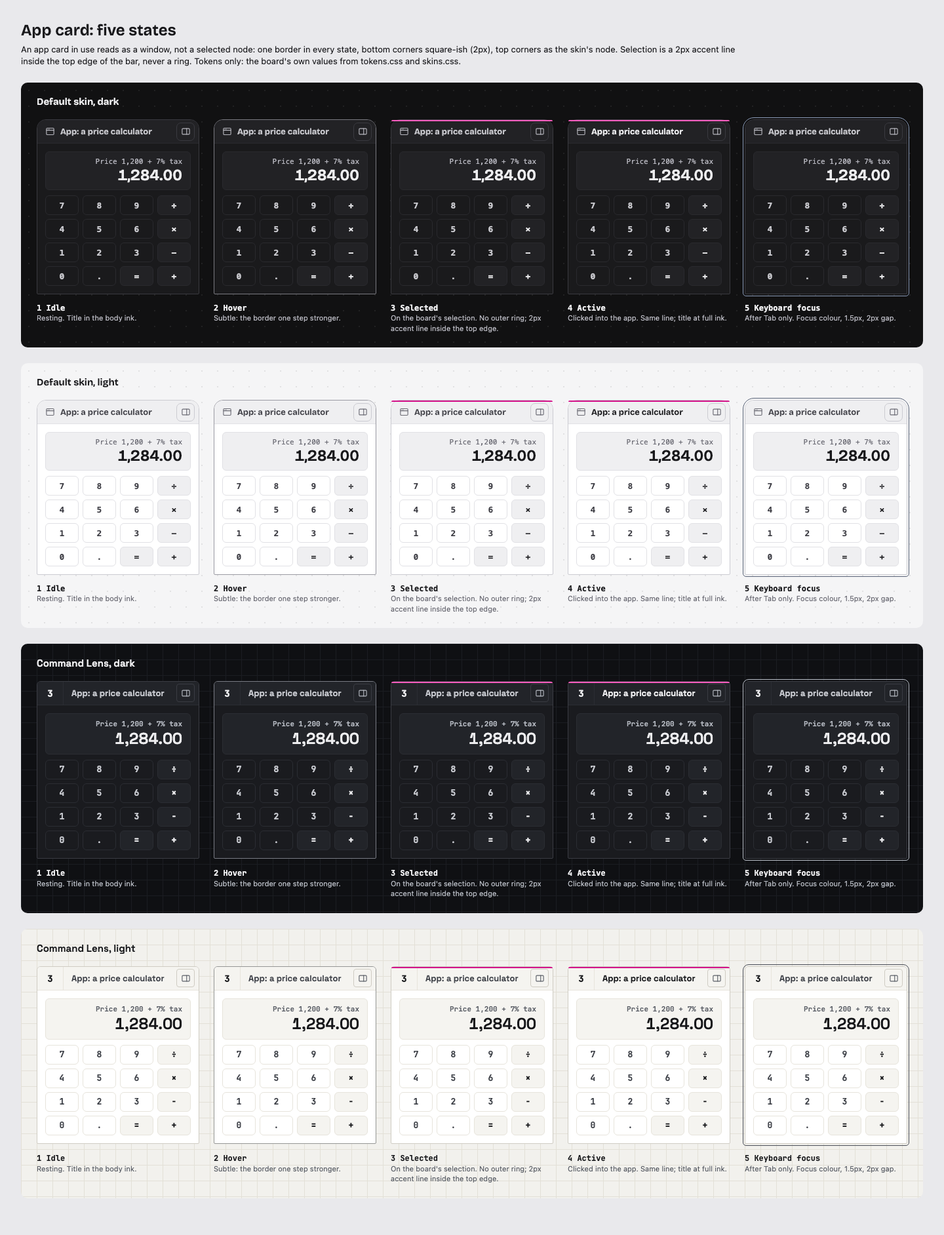
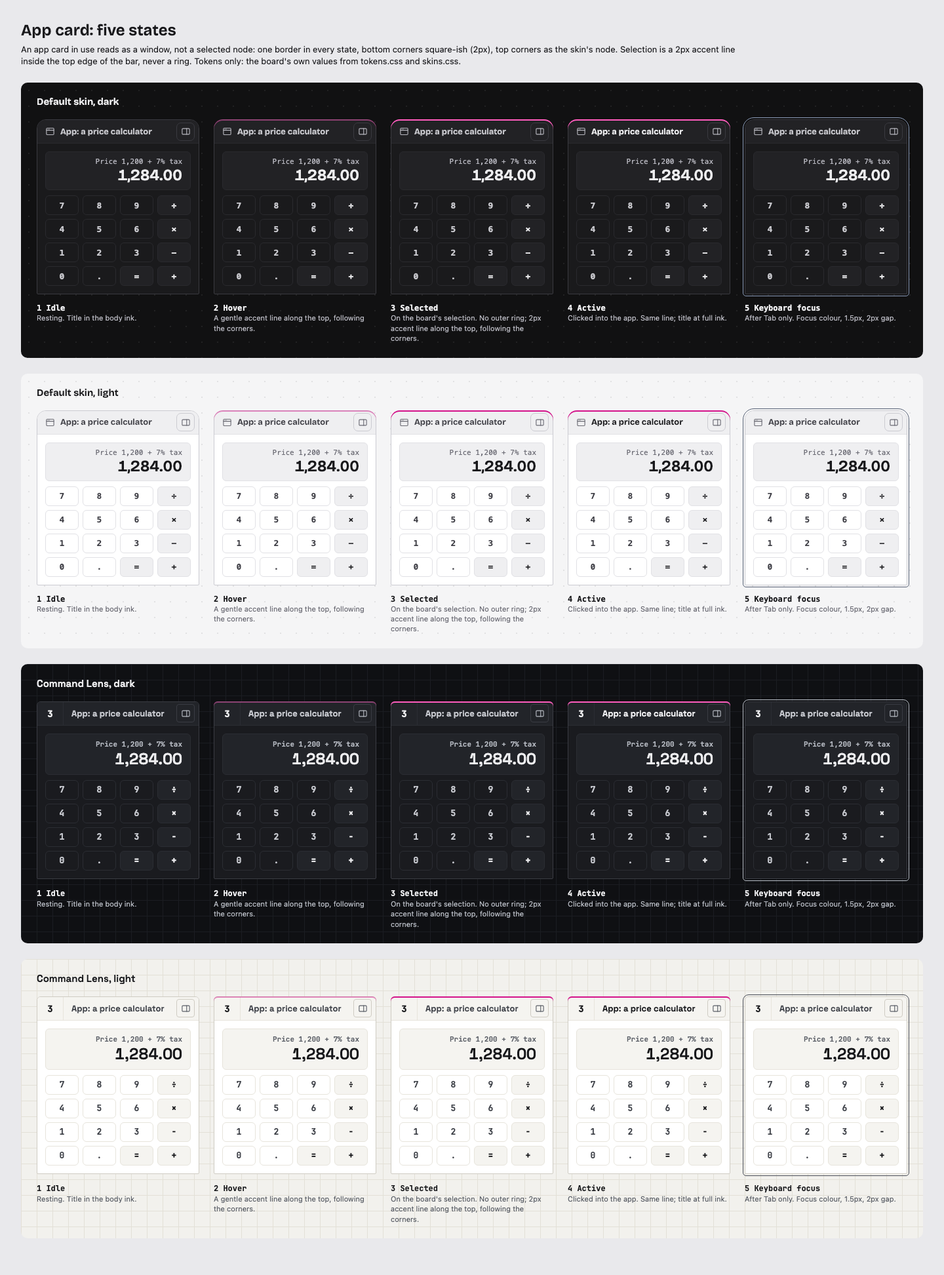
Mockup: app card top line follows the corners; gentle hover (for review)

diff --git a/design/mockups/app-node/app-node-states.html b/design/mockups/app-node/app-node-states.html
@@ -12,26 +12,26 @@
 <p>An app card in use reads as a window, not a selected node: one border in every state, bottom corners square-ish (2px), top corners as the skin's node. Selection is a 2px accent line inside the top edge of the bar, never a ring. Tokens only: the board's own values from tokens.css and skins.css.</p></header>
 <section class="vb-board panel" data-theme="dark"><h2>Default skin, dark</h2><div class="row"><figure><div class="win idle"><div class="bar"><svg class="ic" viewBox="0 0 24 24" aria-hidden="true"><rect x="3" y="4" width="18" height="16" rx="2"/><path d="M3 9h18M7 6.5h.01M10 6.5h.01"/></svg><span class="nm">App: a price calculator</span><span class="btn"><svg class="ic" viewBox="0 0 24 24" aria-hidden="true"><rect x="3" y="5" width="18" height="14" rx="2"/><path d="M14 5v14"/></svg></span></div>
 <div class="body"><div class="disp"><small>Price 1,200 + 7% tax</small><b>1,284.00</b></div><div class="keys"><span class="">7</span><span class="">8</span><span class="">9</span><span class="op">÷</span><span class="">4</span><span class="">5</span><span class="">6</span><span class="op">×</span><span class="">1</span><span class="">2</span><span class="">3</span><span class="op">−</span><span class="">0</span><span class="">.</span><span class="op">=</span><span class="op">+</span></div></div></div><figcaption><b>1 Idle</b>Resting. Title in the body ink.</figcaption></figure><figure><div class="win hover"><div class="bar"><svg class="ic" viewBox="0 0 24 24" aria-hidden="true"><rect x="3" y="4" width="18" height="16" rx="2"/><path d="M3 9h18M7 6.5h.01M10 6.5h.01"/></svg><span class="nm">App: a price calculator</span><span class="btn"><svg class="ic" viewBox="0 0 24 24" aria-hidden="true"><rect x="3" y="5" width="18" height="14" rx="2"/><path d="M14 5v14"/></svg></span></div>
-<div class="body"><div class="disp"><small>Price 1,200 + 7% tax</small><b>1,284.00</b></div><div class="keys"><span class="">7</span><span class="">8</span><span class="">9</span><span class="op">÷</span><span class="">4</span><span class="">5</span><span class="">6</span><span class="op">×</span><span class="">1</span><span class="">2</span><span class="">3</span><span class="op">−</span><span class="">0</span><span class="">.</span><span class="op">=</span><span class="op">+</span></div></div></div><figcaption><b>2 Hover</b>Subtle: the border one step stronger.</figcaption></figure><figure><div class="win selected"><div class="bar"><svg class="ic" viewBox="0 0 24 24" aria-hidden="true"><rect x="3" y="4" width="18" height="16" rx="2"/><path d="M3 9h18M7 6.5h.01M10 6.5h.01"/></svg><span class="nm">App: a price calculator</span><span class="btn"><svg class="ic" viewBox="0 0 24 24" aria-hidden="true"><rect x="3" y="5" width="18" height="14" rx="2"/><path d="M14 5v14"/></svg></span></div>
-<div class="body"><div class="disp"><small>Price 1,200 + 7% tax</small><b>1,284.00</b></div><div class="keys"><span class="">7</span><span class="">8</span><span class="">9</span><span class="op">÷</span><span class="">4</span><span class="">5</span><span class="">6</span><span class="op">×</span><span class="">1</span><span class="">2</span><span class="">3</span><span class="op">−</span><span class="">0</span><span class="">.</span><span class="op">=</span><span class="op">+</span></div></div></div><figcaption><b>3 Selected</b>On the board's selection. No outer ring; 2px accent line inside the top edge.</figcaption></figure><figure><div class="win active"><div class="bar"><svg class="ic" viewBox="0 0 24 24" aria-hidden="true"><rect x="3" y="4" width="18" height="16" rx="2"/><path d="M3 9h18M7 6.5h.01M10 6.5h.01"/></svg><span class="nm">App: a price calculator</span><span class="btn"><svg class="ic" viewBox="0 0 24 24" aria-hidden="true"><rect x="3" y="5" width="18" height="14" rx="2"/><path d="M14 5v14"/></svg></span></div>
+<div class="body"><div class="disp"><small>Price 1,200 + 7% tax</small><b>1,284.00</b></div><div class="keys"><span class="">7</span><span class="">8</span><span class="">9</span><span class="op">÷</span><span class="">4</span><span class="">5</span><span class="">6</span><span class="op">×</span><span class="">1</span><span class="">2</span><span class="">3</span><span class="op">−</span><span class="">0</span><span class="">.</span><span class="op">=</span><span class="op">+</span></div></div></div><figcaption><b>2 Hover</b>A gentle accent line along the top, following the corners.</figcaption></figure><figure><div class="win selected"><div class="bar"><svg class="ic" viewBox="0 0 24 24" aria-hidden="true"><rect x="3" y="4" width="18" height="16" rx="2"/><path d="M3 9h18M7 6.5h.01M10 6.5h.01"/></svg><span class="nm">App: a price calculator</span><span class="btn"><svg class="ic" viewBox="0 0 24 24" aria-hidden="true"><rect x="3" y="5" width="18" height="14" rx="2"/><path d="M14 5v14"/></svg></span></div>
+<div class="body"><div class="disp"><small>Price 1,200 + 7% tax</small><b>1,284.00</b></div><div class="keys"><span class="">7</span><span class="">8</span><span class="">9</span><span class="op">÷</span><span class="">4</span><span class="">5</span><span class="">6</span><span class="op">×</span><span class="">1</span><span class="">2</span><span class="">3</span><span class="op">−</span><span class="">0</span><span class="">.</span><span class="op">=</span><span class="op">+</span></div></div></div><figcaption><b>3 Selected</b>On the board's selection. No outer ring; 2px accent line along the top, following the corners.</figcaption></figure><figure><div class="win active"><div class="bar"><svg class="ic" viewBox="0 0 24 24" aria-hidden="true"><rect x="3" y="4" width="18" height="16" rx="2"/><path d="M3 9h18M7 6.5h.01M10 6.5h.01"/></svg><span class="nm">App: a price calculator</span><span class="btn"><svg class="ic" viewBox="0 0 24 24" aria-hidden="true"><rect x="3" y="5" width="18" height="14" rx="2"/><path d="M14 5v14"/></svg></span></div>
 <div class="body"><div class="disp"><small>Price 1,200 + 7% tax</small><b>1,284.00</b></div><div class="keys"><span class="">7</span><span class="">8</span><span class="">9</span><span class="op">÷</span><span class="">4</span><span class="">5</span><span class="">6</span><span class="op">×</span><span class="">1</span><span class="">2</span><span class="">3</span><span class="op">−</span><span class="">0</span><span class="">.</span><span class="op">=</span><span class="op">+</span></div></div></div><figcaption><b>4 Active</b>Clicked into the app. Same line; title at full ink.</figcaption></figure><figure><div class="win focus"><div class="bar"><svg class="ic" viewBox="0 0 24 24" aria-hidden="true"><rect x="3" y="4" width="18" height="16" rx="2"/><path d="M3 9h18M7 6.5h.01M10 6.5h.01"/></svg><span class="nm">App: a price calculator</span><span class="btn"><svg class="ic" viewBox="0 0 24 24" aria-hidden="true"><rect x="3" y="5" width="18" height="14" rx="2"/><path d="M14 5v14"/></svg></span></div>
 <div class="body"><div class="disp"><small>Price 1,200 + 7% tax</small><b>1,284.00</b></div><div class="keys"><span class="">7</span><span class="">8</span><span class="">9</span><span class="op">÷</span><span class="">4</span><span class="">5</span><span class="">6</span><span class="op">×</span><span class="">1</span><span class="">2</span><span class="">3</span><span class="op">−</span><span class="">0</span><span class="">.</span><span class="op">=</span><span class="op">+</span></div></div></div><figcaption><b>5 Keyboard focus</b>After Tab only. Focus colour, 1.5px, 2px gap.</figcaption></figure></div></section>
 <section class="vb-board panel" data-theme="light"><h2>Default skin, light</h2><div class="row"><figure><div class="win idle"><div class="bar"><svg class="ic" viewBox="0 0 24 24" aria-hidden="true"><rect x="3" y="4" width="18" height="16" rx="2"/><path d="M3 9h18M7 6.5h.01M10 6.5h.01"/></svg><span class="nm">App: a price calculator</span><span class="btn"><svg class="ic" viewBox="0 0 24 24" aria-hidden="true"><rect x="3" y="5" width="18" height="14" rx="2"/><path d="M14 5v14"/></svg></span></div>
 <div class="body"><div class="disp"><small>Price 1,200 + 7% tax</small><b>1,284.00</b></div><div class="keys"><span class="">7</span><span class="">8</span><span class="">9</span><span class="op">÷</span><span class="">4</span><span class="">5</span><span class="">6</span><span class="op">×</span><span class="">1</span><span class="">2</span><span class="">3</span><span class="op">−</span><span class="">0</span><span class="">.</span><span class="op">=</span><span class="op">+</span></div></div></div><figcaption><b>1 Idle</b>Resting. Title in the body ink.</figcaption></figure><figure><div class="win hover"><div class="bar"><svg class="ic" viewBox="0 0 24 24" aria-hidden="true"><rect x="3" y="4" width="18" height="16" rx="2"/><path d="M3 9h18M7 6.5h.01M10 6.5h.01"/></svg><span class="nm">App: a price calculator</span><span class="btn"><svg class="ic" viewBox="0 0 24 24" aria-hidden="true"><rect x="3" y="5" width="18" height="14" rx="2"/><path d="M14 5v14"/></svg></span></div>
-<div class="body"><div class="disp"><small>Price 1,200 + 7% tax</small><b>1,284.00</b></div><div class="keys"><span class="">7</span><span class="">8</span><span class="">9</span><span class="op">÷</span><span class="">4</span><span class="">5</span><span class="">6</span><span class="op">×</span><span class="">1</span><span class="">2</span><span class="">3</span><span class="op">−</span><span class="">0</span><span class="">.</span><span class="op">=</span><span class="op">+</span></div></div></div><figcaption><b>2 Hover</b>Subtle: the border one step stronger.</figcaption></figure><figure><div class="win selected"><div class="bar"><svg class="ic" viewBox="0 0 24 24" aria-hidden="true"><rect x="3" y="4" width="18" height="16" rx="2"/><path d="M3 9h18M7 6.5h.01M10 6.5h.01"/></svg><span class="nm">App: a price calculator</span><span class="btn"><svg class="ic" viewBox="0 0 24 24" aria-hidden="true"><rect x="3" y="5" width="18" height="14" rx="2"/><path d="M14 5v14"/></svg></span></div>
-<div class="body"><div class="disp"><small>Price 1,200 + 7% tax</small><b>1,284.00</b></div><div class="keys"><span class="">7</span><span class="">8</span><span class="">9</span><span class="op">÷</span><span class="">4</span><span class="">5</span><span class="">6</span><span class="op">×</span><span class="">1</span><span class="">2</span><span class="">3</span><span class="op">−</span><span class="">0</span><span class="">.</span><span class="op">=</span><span class="op">+</span></div></div></div><figcaption><b>3 Selected</b>On the board's selection. No outer ring; 2px accent line inside the top edge.</figcaption></figure><figure><div class="win active"><div class="bar"><svg class="ic" viewBox="0 0 24 24" aria-hidden="true"><rect x="3" y="4" width="18" height="16" rx="2"/><path d="M3 9h18M7 6.5h.01M10 6.5h.01"/></svg><span class="nm">App: a price calculator</span><span class="btn"><svg class="ic" viewBox="0 0 24 24" aria-hidden="true"><rect x="3" y="5" width="18" height="14" rx="2"/><path d="M14 5v14"/></svg></span></div>
+<div class="body"><div class="disp"><small>Price 1,200 + 7% tax</small><b>1,284.00</b></div><div class="keys"><span class="">7</span><span class="">8</span><span class="">9</span><span class="op">÷</span><span class="">4</span><span class="">5</span><span class="">6</span><span class="op">×</span><span class="">1</span><span class="">2</span><span class="">3</span><span class="op">−</span><span class="">0</span><span class="">.</span><span class="op">=</span><span class="op">+</span></div></div></div><figcaption><b>2 Hover</b>A gentle accent line along the top, following the corners.</figcaption></figure><figure><div class="win selected"><div class="bar"><svg class="ic" viewBox="0 0 24 24" aria-hidden="true"><rect x="3" y="4" width="18" height="16" rx="2"/><path d="M3 9h18M7 6.5h.01M10 6.5h.01"/></svg><span class="nm">App: a price calculator</span><span class="btn"><svg class="ic" viewBox="0 0 24 24" aria-hidden="true"><rect x="3" y="5" width="18" height="14" rx="2"/><path d="M14 5v14"/></svg></span></div>
+<div class="body"><div class="disp"><small>Price 1,200 + 7% tax</small><b>1,284.00</b></div><div class="keys"><span class="">7</span><span class="">8</span><span class="">9</span><span class="op">÷</span><span class="">4</span><span class="">5</span><span class="">6</span><span class="op">×</span><span class="">1</span><span class="">2</span><span class="">3</span><span class="op">−</span><span class="">0</span><span class="">.</span><span class="op">=</span><span class="op">+</span></div></div></div><figcaption><b>3 Selected</b>On the board's selection. No outer ring; 2px accent line along the top, following the corners.</figcaption></figure><figure><div class="win active"><div class="bar"><svg class="ic" viewBox="0 0 24 24" aria-hidden="true"><rect x="3" y="4" width="18" height="16" rx="2"/><path d="M3 9h18M7 6.5h.01M10 6.5h.01"/></svg><span class="nm">App: a price calculator</span><span class="btn"><svg class="ic" viewBox="0 0 24 24" aria-hidden="true"><rect x="3" y="5" width="18" height="14" rx="2"/><path d="M14 5v14"/></svg></span></div>
 <div class="body"><div class="disp"><small>Price 1,200 + 7% tax</small><b>1,284.00</b></div><div class="keys"><span class="">7</span><span class="">8</span><span class="">9</span><span class="op">÷</span><span class="">4</span><span class="">5</span><span class="">6</span><span class="op">×</span><span class="">1</span><span class="">2</span><span class="">3</span><span class="op">−</span><span class="">0</span><span class="">.</span><span class="op">=</span><span class="op">+</span></div></div></div><figcaption><b>4 Active</b>Clicked into the app. Same line; title at full ink.</figcaption></figure><figure><div class="win focus"><div class="bar"><svg class="ic" viewBox="0 0 24 24" aria-hidden="true"><rect x="3" y="4" width="18" height="16" rx="2"/><path d="M3 9h18M7 6.5h.01M10 6.5h.01"/></svg><span class="nm">App: a price calculator</span><span class="btn"><svg class="ic" viewBox="0 0 24 24" aria-hidden="true"><rect x="3" y="5" width="18" height="14" rx="2"/><path d="M14 5v14"/></svg></span></div>
 <div class="body"><div class="disp"><small>Price 1,200 + 7% tax</small><b>1,284.00</b></div><div class="keys"><span class="">7</span><span class="">8</span><span class="">9</span><span class="op">÷</span><span class="">4</span><span class="">5</span><span class="">6</span><span class="op">×</span><span class="">1</span><span class="">2</span><span class="">3</span><span class="op">−</span><span class="">0</span><span class="">.</span><span class="op">=</span><span class="op">+</span></div></div></div><figcaption><b>5 Keyboard focus</b>After Tab only. Focus colour, 1.5px, 2px gap.</figcaption></figure></div></section>
 <section class="vb-board panel" data-theme="dark" data-vb-skin="command-lens"><h2>Command Lens, dark</h2><div class="row"><figure><div class="win idle"><span class="no">3</span><div class="bar"><span class="nm">App: a price calculator</span><span class="btn"><svg class="ic" viewBox="0 0 24 24" aria-hidden="true"><rect x="3" y="5" width="18" height="14" rx="2"/><path d="M14 5v14"/></svg></span></div>
 <div class="body"><div class="disp"><small>Price 1,200 + 7% tax</small><b>1,284.00</b></div><div class="keys"><span class="">7</span><span class="">8</span><span class="">9</span><span class="op">÷</span><span class="">4</span><span class="">5</span><span class="">6</span><span class="op">×</span><span class="">1</span><span class="">2</span><span class="">3</span><span class="op">−</span><span class="">0</span><span class="">.</span><span class="op">=</span><span class="op">+</span></div></div></div><figcaption><b>1 Idle</b>Resting. Title in the body ink.</figcaption></figure><figure><div class="win hover"><span class="no">3</span><div class="bar"><span class="nm">App: a price calculator</span><span class="btn"><svg class="ic" viewBox="0 0 24 24" aria-hidden="true"><rect x="3" y="5" width="18" height="14" rx="2"/><path d="M14 5v14"/></svg></span></div>
-<div class="body"><div class="disp"><small>Price 1,200 + 7% tax</small><b>1,284.00</b></div><div class="keys"><span class="">7</span><span class="">8</span><span class="">9</span><span class="op">÷</span><span class="">4</span><span class="">5</span><span class="">6</span><span class="op">×</span><span class="">1</span><span class="">2</span><span class="">3</span><span class="op">−</span><span class="">0</span><span class="">.</span><span class="op">=</span><span class="op">+</span></div></div></div><figcaption><b>2 Hover</b>Subtle: the border one step stronger.</figcaption></figure><figure><div class="win selected"><span class="no">3</span><div class="bar"><span class="nm">App: a price calculator</span><span class="btn"><svg class="ic" viewBox="0 0 24 24" aria-hidden="true"><rect x="3" y="5" width="18" height="14" rx="2"/><path d="M14 5v14"/></svg></span></div>
-<div class="body"><div class="disp"><small>Price 1,200 + 7% tax</small><b>1,284.00</b></div><div class="keys"><span class="">7</span><span class="">8</span><span class="">9</span><span class="op">÷</span><span class="">4</span><span class="">5</span><span class="">6</span><span class="op">×</span><span class="">1</span><span class="">2</span><span class="">3</span><span class="op">−</span><span class="">0</span><span class="">.</span><span class="op">=</span><span class="op">+</span></div></div></div><figcaption><b>3 Selected</b>On the board's selection. No outer ring; 2px accent line inside the top edge.</figcaption></figure><figure><div class="win active"><span class="no">3</span><div class="bar"><span class="nm">App: a price calculator</span><span class="btn"><svg class="ic" viewBox="0 0 24 24" aria-hidden="true"><rect x="3" y="5" width="18" height="14" rx="2"/><path d="M14 5v14"/></svg></span></div>
+<div class="body"><div class="disp"><small>Price 1,200 + 7% tax</small><b>1,284.00</b></div><div class="keys"><span class="">7</span><span class="">8</span><span class="">9</span><span class="op">÷</span><span class="">4</span><span class="">5</span><span class="">6</span><span class="op">×</span><span class="">1</span><span class="">2</span><span class="">3</span><span class="op">−</span><span class="">0</span><span class="">.</span><span class="op">=</span><span class="op">+</span></div></div></div><figcaption><b>2 Hover</b>A gentle accent line along the top, following the corners.</figcaption></figure><figure><div class="win selected"><span class="no">3</span><div class="bar"><span class="nm">App: a price calculator</span><span class="btn"><svg class="ic" viewBox="0 0 24 24" aria-hidden="true"><rect x="3" y="5" width="18" height="14" rx="2"/><path d="M14 5v14"/></svg></span></div>
+<div class="body"><div class="disp"><small>Price 1,200 + 7% tax</small><b>1,284.00</b></div><div class="keys"><span class="">7</span><span class="">8</span><span class="">9</span><span class="op">÷</span><span class="">4</span><span class="">5</span><span class="">6</span><span class="op">×</span><span class="">1</span><span class="">2</span><span class="">3</span><span class="op">−</span><span class="">0</span><span class="">.</span><span class="op">=</span><span class="op">+</span></div></div></div><figcaption><b>3 Selected</b>On the board's selection. No outer ring; 2px accent line along the top, following the corners.</figcaption></figure><figure><div class="win active"><span class="no">3</span><div class="bar"><span class="nm">App: a price calculator</span><span class="btn"><svg class="ic" viewBox="0 0 24 24" aria-hidden="true"><rect x="3" y="5" width="18" height="14" rx="2"/><path d="M14 5v14"/></svg></span></div>
 <div class="body"><div class="disp"><small>Price 1,200 + 7% tax</small><b>1,284.00</b></div><div class="keys"><span class="">7</span><span class="">8</span><span class="">9</span><span class="op">÷</span><span class="">4</span><span class="">5</span><span class="">6</span><span class="op">×</span><span class="">1</span><span class="">2</span><span class="">3</span><span class="op">−</span><span class="">0</span><span class="">.</span><span class="op">=</span><span class="op">+</span></div></div></div><figcaption><b>4 Active</b>Clicked into the app. Same line; title at full ink.</figcaption></figure><figure><div class="win focus"><span class="no">3</span><div class="bar"><span class="nm">App: a price calculator</span><span class="btn"><svg class="ic" viewBox="0 0 24 24" aria-hidden="true"><rect x="3" y="5" width="18" height="14" rx="2"/><path d="M14 5v14"/></svg></span></div>
 <div class="body"><div class="disp"><small>Price 1,200 + 7% tax</small><b>1,284.00</b></div><div class="keys"><span class="">7</span><span class="">8</span><span class="">9</span><span class="op">÷</span><span class="">4</span><span class="">5</span><span class="">6</span><span class="op">×</span><span class="">1</span><span class="">2</span><span class="">3</span><span class="op">−</span><span class="">0</span><span class="">.</span><span class="op">=</span><span class="op">+</span></div></div></div><figcaption><b>5 Keyboard focus</b>After Tab only. Focus colour, 1.5px, 2px gap.</figcaption></figure></div></section>
 <section class="vb-board panel" data-theme="light" data-vb-skin="command-lens"><h2>Command Lens, light</h2><div class="row"><figure><div class="win idle"><span class="no">3</span><div class="bar"><span class="nm">App: a price calculator</span><span class="btn"><svg class="ic" viewBox="0 0 24 24" aria-hidden="true"><rect x="3" y="5" width="18" height="14" rx="2"/><path d="M14 5v14"/></svg></span></div>
 <div class="body"><div class="disp"><small>Price 1,200 + 7% tax</small><b>1,284.00</b></div><div class="keys"><span class="">7</span><span class="">8</span><span class="">9</span><span class="op">÷</span><span class="">4</span><span class="">5</span><span class="">6</span><span class="op">×</span><span class="">1</span><span class="">2</span><span class="">3</span><span class="op">−</span><span class="">0</span><span class="">.</span><span class="op">=</span><span class="op">+</span></div></div></div><figcaption><b>1 Idle</b>Resting. Title in the body ink.</figcaption></figure><figure><div class="win hover"><span class="no">3</span><div class="bar"><span class="nm">App: a price calculator</span><span class="btn"><svg class="ic" viewBox="0 0 24 24" aria-hidden="true"><rect x="3" y="5" width="18" height="14" rx="2"/><path d="M14 5v14"/></svg></span></div>
-<div class="body"><div class="disp"><small>Price 1,200 + 7% tax</small><b>1,284.00</b></div><div class="keys"><span class="">7</span><span class="">8</span><span class="">9</span><span class="op">÷</span><span class="">4</span><span class="">5</span><span class="">6</span><span class="op">×</span><span class="">1</span><span class="">2</span><span class="">3</span><span class="op">−</span><span class="">0</span><span class="">.</span><span class="op">=</span><span class="op">+</span></div></div></div><figcaption><b>2 Hover</b>Subtle: the border one step stronger.</figcaption></figure><figure><div class="win selected"><span class="no">3</span><div class="bar"><span class="nm">App: a price calculator</span><span class="btn"><svg class="ic" viewBox="0 0 24 24" aria-hidden="true"><rect x="3" y="5" width="18" height="14" rx="2"/><path d="M14 5v14"/></svg></span></div>
-<div class="body"><div class="disp"><small>Price 1,200 + 7% tax</small><b>1,284.00</b></div><div class="keys"><span class="">7</span><span class="">8</span><span class="">9</span><span class="op">÷</span><span class="">4</span><span class="">5</span><span class="">6</span><span class="op">×</span><span class="">1</span><span class="">2</span><span class="">3</span><span class="op">−</span><span class="">0</span><span class="">.</span><span class="op">=</span><span class="op">+</span></div></div></div><figcaption><b>3 Selected</b>On the board's selection. No outer ring; 2px accent line inside the top edge.</figcaption></figure><figure><div class="win active"><span class="no">3</span><div class="bar"><span class="nm">App: a price calculator</span><span class="btn"><svg class="ic" viewBox="0 0 24 24" aria-hidden="true"><rect x="3" y="5" width="18" height="14" rx="2"/><path d="M14 5v14"/></svg></span></div>
+<div class="body"><div class="disp"><small>Price 1,200 + 7% tax</small><b>1,284.00</b></div><div class="keys"><span class="">7</span><span class="">8</span><span class="">9</span><span class="op">÷</span><span class="">4</span><span class="">5</span><span class="">6</span><span class="op">×</span><span class="">1</span><span class="">2</span><span class="">3</span><span class="op">−</span><span class="">0</span><span class="">.</span><span class="op">=</span><span class="op">+</span></div></div></div><figcaption><b>2 Hover</b>A gentle accent line along the top, following the corners.</figcaption></figure><figure><div class="win selected"><span class="no">3</span><div class="bar"><span class="nm">App: a price calculator</span><span class="btn"><svg class="ic" viewBox="0 0 24 24" aria-hidden="true"><rect x="3" y="5" width="18" height="14" rx="2"/><path d="M14 5v14"/></svg></span></div>
+<div class="body"><div class="disp"><small>Price 1,200 + 7% tax</small><b>1,284.00</b></div><div class="keys"><span class="">7</span><span class="">8</span><span class="">9</span><span class="op">÷</span><span class="">4</span><span class="">5</span><span class="">6</span><span class="op">×</span><span class="">1</span><span class="">2</span><span class="">3</span><span class="op">−</span><span class="">0</span><span class="">.</span><span class="op">=</span><span class="op">+</span></div></div></div><figcaption><b>3 Selected</b>On the board's selection. No outer ring; 2px accent line along the top, following the corners.</figcaption></figure><figure><div class="win active"><span class="no">3</span><div class="bar"><span class="nm">App: a price calculator</span><span class="btn"><svg class="ic" viewBox="0 0 24 24" aria-hidden="true"><rect x="3" y="5" width="18" height="14" rx="2"/><path d="M14 5v14"/></svg></span></div>
 <div class="body"><div class="disp"><small>Price 1,200 + 7% tax</small><b>1,284.00</b></div><div class="keys"><span class="">7</span><span class="">8</span><span class="">9</span><span class="op">÷</span><span class="">4</span><span class="">5</span><span class="">6</span><span class="op">×</span><span class="">1</span><span class="">2</span><span class="">3</span><span class="op">−</span><span class="">0</span><span class="">.</span><span class="op">=</span><span class="op">+</span></div></div></div><figcaption><b>4 Active</b>Clicked into the app. Same line; title at full ink.</figcaption></figure><figure><div class="win focus"><span class="no">3</span><div class="bar"><span class="nm">App: a price calculator</span><span class="btn"><svg class="ic" viewBox="0 0 24 24" aria-hidden="true"><rect x="3" y="5" width="18" height="14" rx="2"/><path d="M14 5v14"/></svg></span></div>
 <div class="body"><div class="disp"><small>Price 1,200 + 7% tax</small><b>1,284.00</b></div><div class="keys"><span class="">7</span><span class="">8</span><span class="">9</span><span class="op">÷</span><span class="">4</span><span class="">5</span><span class="">6</span><span class="op">×</span><span class="">1</span><span class="">2</span><span class="">3</span><span class="op">−</span><span class="">0</span><span class="">.</span><span class="op">=</span><span class="op">+</span></div></div></div><figcaption><b>5 Keyboard focus</b>After Tab only. Focus colour, 1.5px, 2px gap.</figcaption></figure></div></section>
 </body>

diff --git a/design/mockups/app-node/app-node-states.css b/design/mockups/app-node/app-node-states.css
@@ -32,11 +32,13 @@ figcaption b { display: block; font: 600 12px var(--vb-font-label); color: var(-
 .keys span { display: grid; place-items: center; height: 30px; border: 1px solid var(--vb-line); border-radius: var(--vb-radius-sm); background: var(--vb-surface-card); font: 600 13px var(--vb-font-label); color: var(--vb-ink); }
 .keys .op { background: var(--vb-surface-sunken); color: var(--vb-ink-strong); }
 
-/* States: one border throughout. */
-.win.hover { border-color: color-mix(in srgb, var(--vb-line-strong) 50%, var(--vb-ink-subtle)); }
-.win.selected::before, .win.active::before {
-  content: ''; position: absolute; z-index: 2; left: 0; right: 0; top: 0; height: 2px; background: var(--vb-accent);
-  border-radius: calc(var(--top-r) - 1px) calc(var(--top-r) - 1px) 0 0; pointer-events: none;
+/* States: one border throughout. The accent line is an inset shadow on an overlay with the frame's own radius, so it
+   follows the top corners' curve. Hover: a gentle accent; selected and active: the full accent. */
+.win::before {
+  content: ''; position: absolute; z-index: 2; inset: -1px; border-radius: inherit; pointer-events: none;
+  box-shadow: inset 0 2px 0 var(--line, transparent);
 }
+.win.hover { --line: color-mix(in srgb, var(--vb-accent) 45%, transparent); }
+.win.selected, .win.active { --line: var(--vb-accent); }
 .win.active .nm { color: var(--vb-ink-strong); }
 .win.focus { outline: 1.5px solid var(--vb-focus); outline-offset: var(--vb-focus-offset); }
